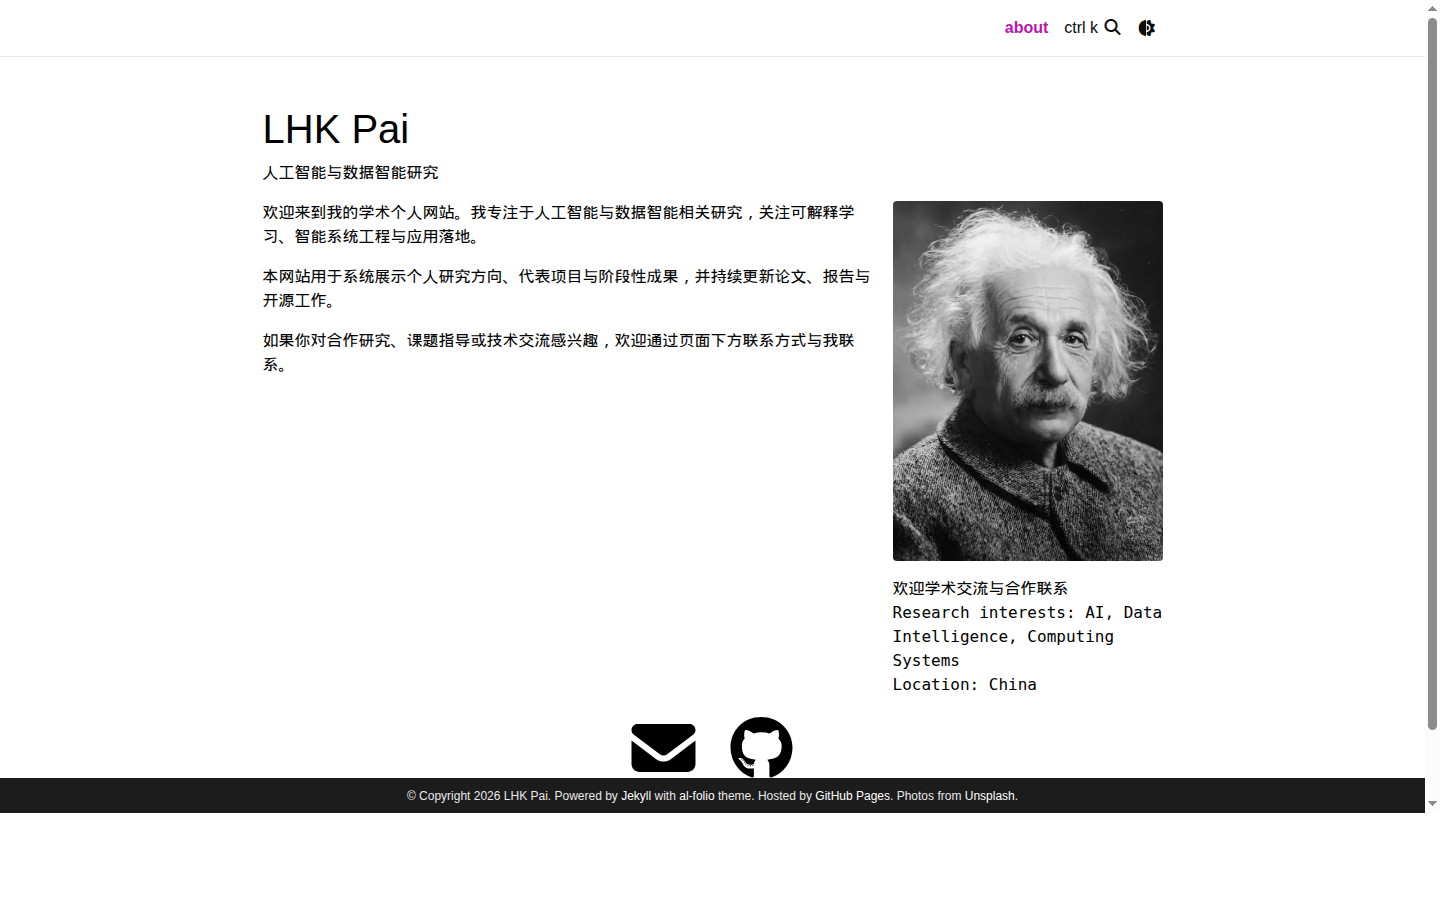
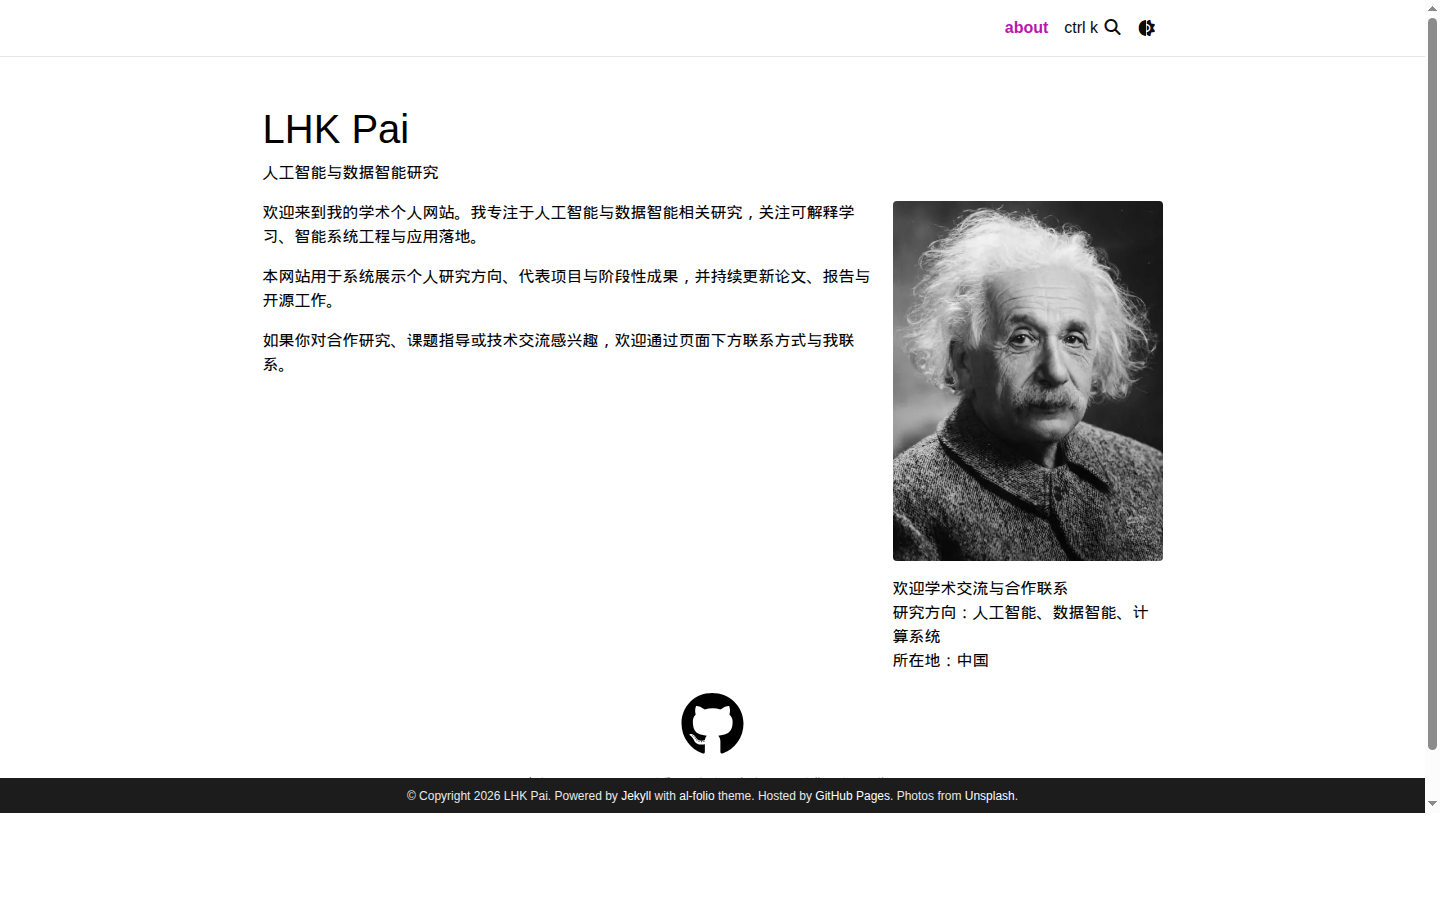
refine localized content and contact/social settings
Agent-Logs-Url: https://github.com/lhkpai/lhkpai.github.io/sessions/014bb109-0316-4cba-ad48-3a857cc85e4c

Changed region(s): [[0.625, 0.6533, 0.8125, 0.7778], [0.4375, 0.7467, 0.5625, 0.8711], [0.9688, 0.8089, 1.0, 0.84]]

diff --git a/_pages/about.md b/_pages/about.md
@@ -10,8 +10,8 @@ profile:
   image_circular: false # crops the image to make it circular
   more_info: >
     <p>欢迎学术交流与合作联系</p>
-    <p>Research interests: AI, Data Intelligence, Computing Systems</p>
-    <p>Location: China</p>
+    <p>研究方向：人工智能、数据智能、计算系统</p>
+    <p>所在地：中国</p>
 
 selected_papers: false # includes a list of papers marked as "selected={true}"
 social: true # includes social icons at the bottom of the page
